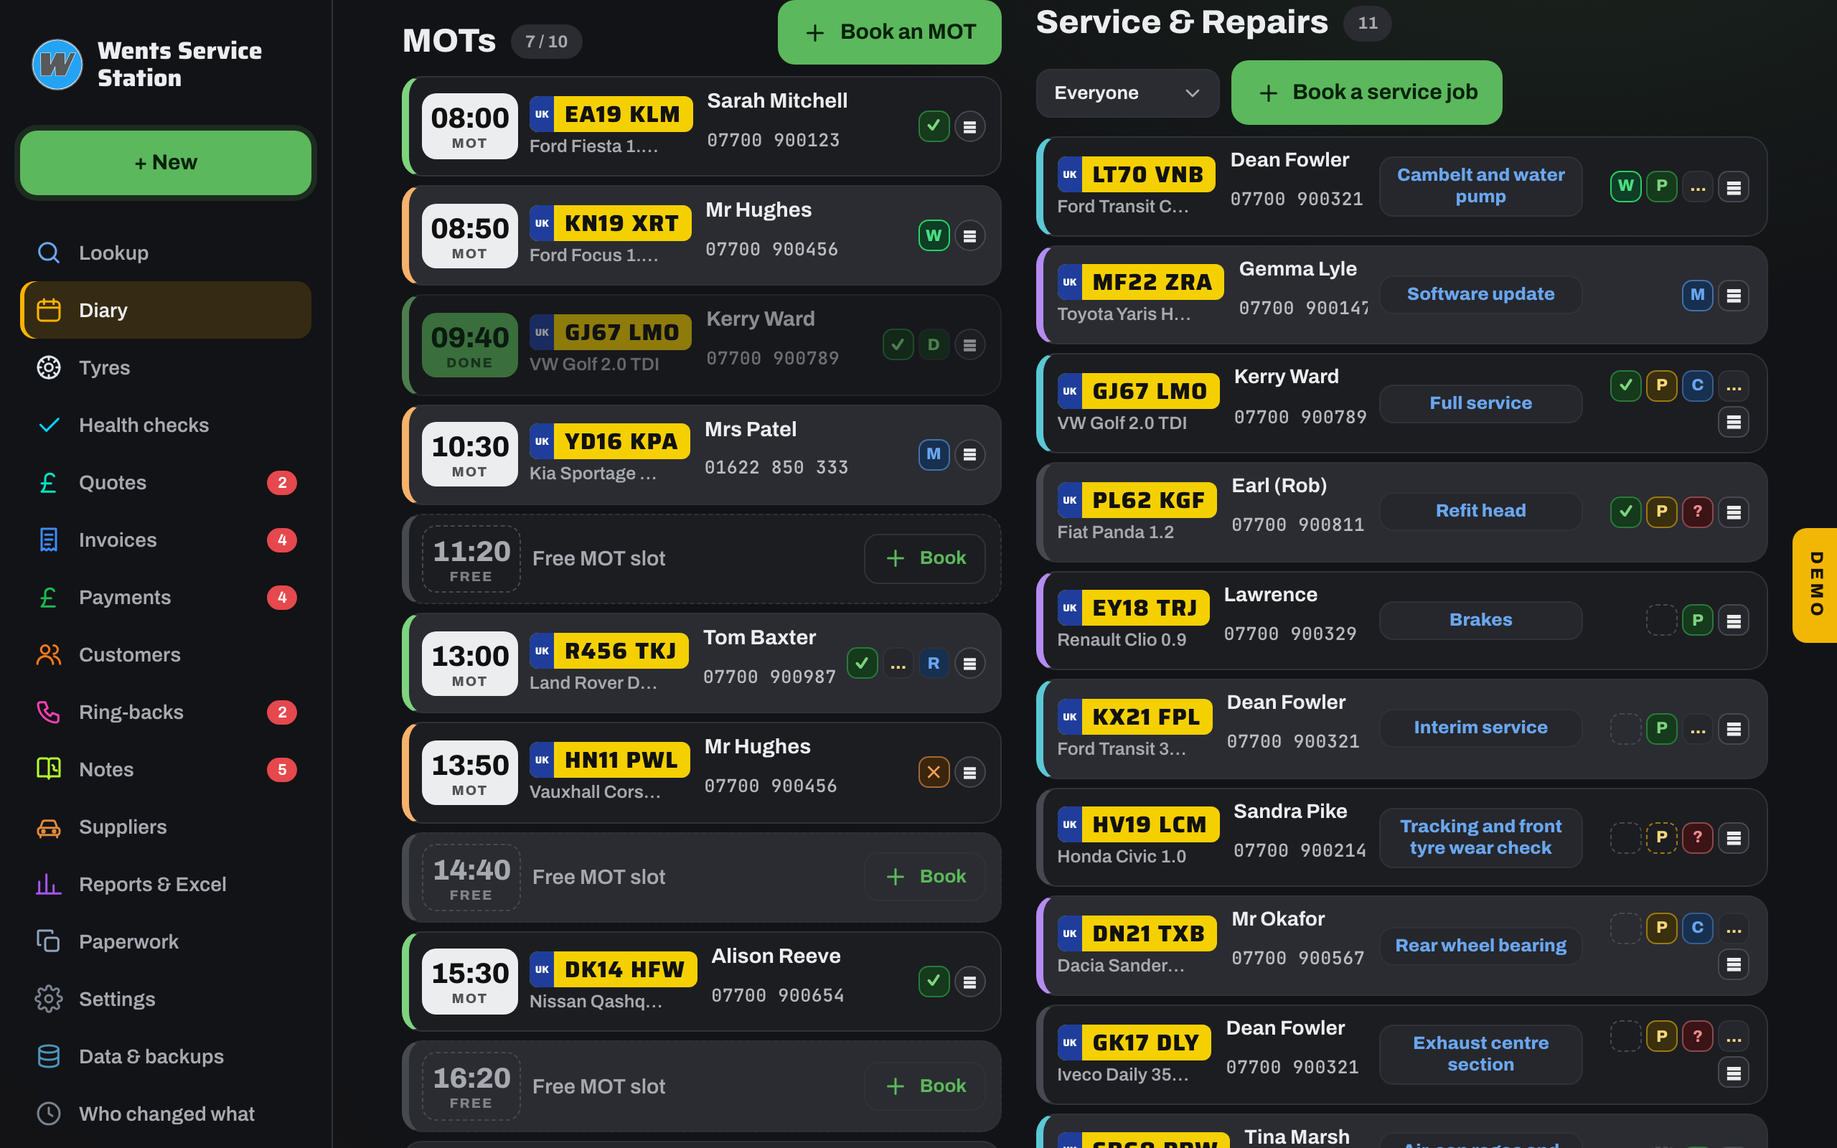
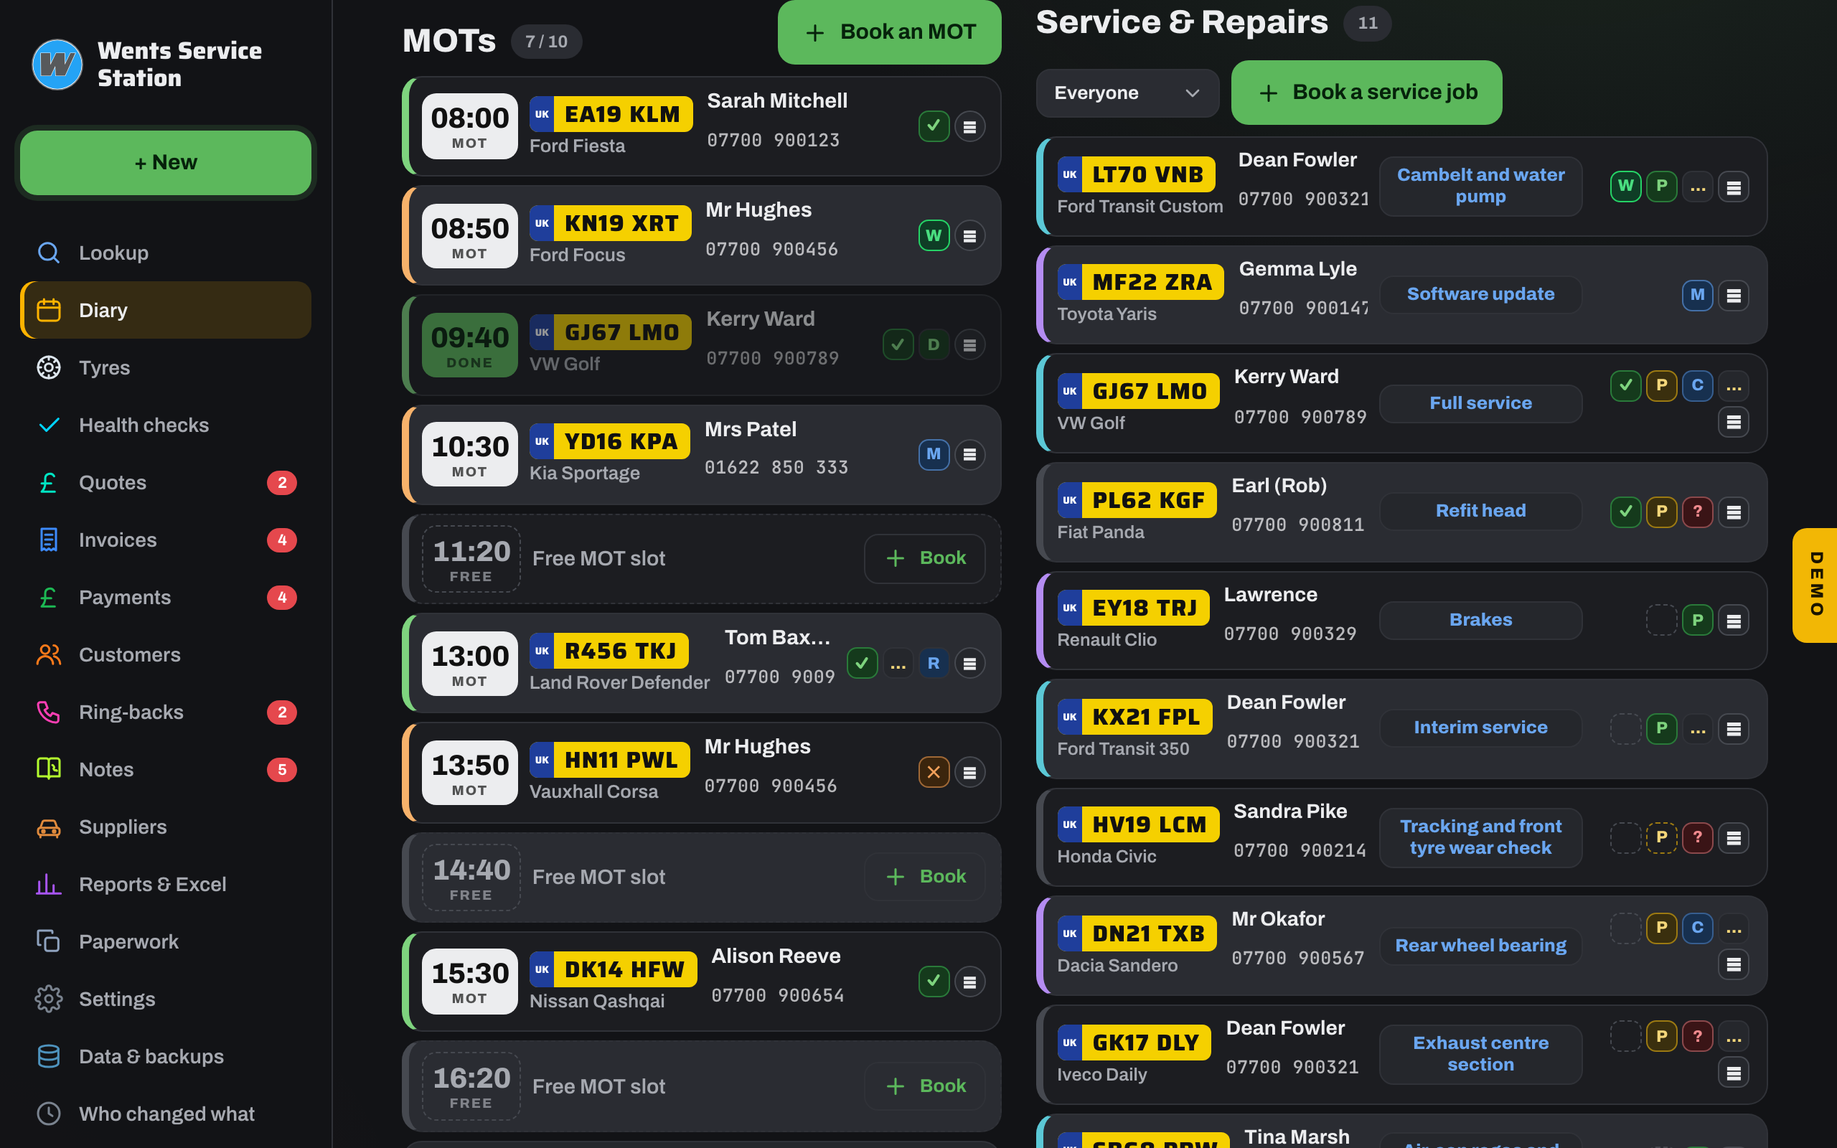
Mock round 30: diary page wider (1480 cap, tighter side padding), MOT column takes a bigger share on desktop, make line longer and a touch bigger so the full make and model shows under the reg, demo vehicles carry make and model only (no engine sizes); workshop-v26

diff --git a/mock/index.html b/mock/index.html
@@ -62,7 +62,7 @@ body{overflow-x:hidden}
 .side .foot .dot{display:inline-block;width:8px;height:8px;border-radius:99px;background:var(--green);margin-right:6px;box-shadow:0 0 0 3px rgba(92,184,92,.2)}
 
 /* main */
-.main{min-width:0;padding:26px 28px 90px;max-width:1180px;width:100%}
+.main{min-width:0;padding:26px 24px 90px;max-width:1480px;width:100%}
 .eyebrow{font-size:12px;letter-spacing:.14em;text-transform:uppercase;color:var(--muted);font-weight:700}
 .title{font-family:var(--font-title);font-size:34px;line-height:1.05;letter-spacing:-.01em;margin:2px 0 20px}
 .head{display:flex;align-items:flex-start;justify-content:space-between;gap:16px;flex-wrap:wrap}
@@ -346,7 +346,7 @@ a.stat{display:block} a.stat:hover{border-color:var(--line-strong)}
 .dv .bm{display:grid;gap:3px;min-width:0}.dv .bm .vc{display:flex;align-items:center;flex-wrap:wrap;gap:4px 10px;min-width:0}.dv .bm .veh{flex:none} .dv .bm .plate{font-size:16px} .dv .bm .plate span{padding:5px 8px 4px 7px} .dv .bm .plate::before{font-size:7px;padding:0 4px}
  .dv .bm .job svg{width:14px;height:14px;flex:none;vertical-align:-2px}
  .dv .bm .veh{display:grid;gap:3px;justify-items:start;align-content:center}
- .dv .bm .veh small{font-size:12.5px;font-weight:600;color:var(--muted);line-height:1.15;max-width:114px;white-space:nowrap;overflow:hidden;text-overflow:ellipsis}
+ .dv .bm .veh small{font-size:13px;font-weight:600;color:var(--muted);line-height:1.15;max-width:150px;white-space:nowrap;overflow:hidden;text-overflow:ellipsis}
  .dv .bm .cus{display:grid;gap:2px;min-width:0;flex:1 1 76px;align-content:center}
  .dv .bm .cus b{font-size:14.5px;font-weight:700;color:var(--fg);line-height:1.15;white-space:nowrap;overflow:hidden;text-overflow:ellipsis}
  .dv .bm .cus a,.dv .bm .cus .ph,.dv .bm .cus .muted{color:var(--fg);opacity:.75;font-family:var(--font-mono);font-weight:600;letter-spacing:.02em;font-size:12.5px;white-space:nowrap}
@@ -372,7 +372,7 @@ a.stat{display:block} a.stat:hover{border-color:var(--line-strong)}
 .dv .sq.cf.none{border-style:dashed;border-color:var(--line-strong);background:transparent} .dv .sq.cf.ok{background:#153A1C;border-color:#2a7a3a;color:#7ED37E} .dv .sq.cf.wa{background:#0F3D26;border-color:#25D366;color:#4ADE80} .dv .sq.cf.msg{background:#17304F;border-color:rgba(106,166,240,.55);color:var(--accent)} .dv .sq.cf.noans{background:#3B250D;border-color:rgba(242,160,90,.55);color:#F2A05A}
 .dv .sq.pt.todo{background:transparent;border-style:dashed;border-color:var(--flag-line);color:var(--flag-fg)} .dv .sq.pt.ordered{background:var(--flag-bg);border-color:var(--flag-line);color:var(--flag-fg)} .dv .sq.pt.in{background:#153A1C;border-color:#2a7a3a;color:#7ED37E}
 .dv .sq.ln{background:#17304F;border-color:rgba(106,166,240,.4);color:var(--accent)} .dv .sq.ng{background:#3A1416;border-color:rgba(240,138,142,.45);color:#F08A8E} .dv .sq.nq{color:var(--flag-fg);letter-spacing:-.05em} .dv .sq.ap{background:#153A1C;color:#7ED37E} .dv .sq.rd{background:#17304F;color:var(--accent)} .dv .sq.dn{background:#153A1C;color:#7ED37E} .dv .sq.wl{color:var(--flag-fg);border-color:var(--flag-line)} .dv .sq.wl.moved,.dv .sq.wl.rebooked{color:#7ED37E;border-color:#2a7a3a}
-.dv .wlb{width:26px;height:26px;border-radius:8px;padding:0;justify-content:center;flex:none} .dv .wlb svg{width:13px;height:13px} .dvslot .rt{max-width:100px;gap:3px} .dvslot .sq,.dvslot .wlb{width:22px;height:22px;font-size:11.5px;border-radius:7px} .dvslot .sq svg,.dvslot .wlb svg{width:12px;height:12px} .dvslot .bm .veh small{max-width:100px}
+.dv .wlb{width:26px;height:26px;border-radius:8px;padding:0;justify-content:center;flex:none} .dv .wlb svg{width:13px;height:13px} .dvslot .rt{max-width:100px;gap:3px} .dvslot .sq,.dvslot .wlb{width:22px;height:22px;font-size:11.5px;border-radius:7px} .dvslot .sq svg,.dvslot .wlb svg{width:12px;height:12px} .dvslot .bm .veh small{max-width:150px}
 .dvkey{display:flex;flex-wrap:wrap;align-items:center;gap:4px 14px;margin:-4px 0 10px;font-size:12px;color:var(--muted);font-weight:600} .dvkey span{display:inline-flex;align-items:center;gap:5px} .dvkey .wlb{width:20px;height:20px;border-radius:6px;cursor:default} .dvkey .wlb svg{width:12px;height:12px;stroke:currentColor;fill:none;stroke-width:2.2} .dvkey .sq{width:20px;height:20px;font-size:11px;border-radius:6px;font-style:normal}
 .dvslot.free{min-height:52px;padding-top:7px;padding-bottom:7px;border-style:dashed;border-left-style:solid} .dvslot.free .bm{color:var(--muted);font-size:14.5px;font-weight:600} .dvslot.free .rt .btn{color:var(--green)}
 .dvslot.done{opacity:.55} .dvslot.done .tm{background:var(--green);color:var(--green-fg,#0B1424)}
@@ -929,7 +929,7 @@ a.stat{display:block} a.stat:hover{border-color:var(--line-strong)}
 .spmode button.on{background:color-mix(in srgb,var(--sc,var(--accent)) 22%,var(--tile));color:var(--fg)}
 .sgrid .srow{margin-bottom:8px}
 @media (max-width:760px){.spbar{grid-template-columns:1fr}}
-@media (min-width:1400px){.dv .cols{grid-template-columns:minmax(0,5fr) minmax(0,8fr)}} @media (min-width:601px) and (max-width:1399px){.dvjob{grid-template-columns:minmax(0,1fr) 150px 100px;gap:4px 8px} .dvjob .jbx{width:142px;margin-right:8px;padding:5px 7px} .dvjob .jbx .jb{font-size:12.5px} .dvjob .rt{width:100px} .dvjob .rt .sq,.dvjob .rt .wlb{width:22px;height:22px;font-size:11.5px} .dv .bm .veh small{max-width:96px}}
+@media (min-width:1400px){.dv .cols{grid-template-columns:minmax(0,6fr) minmax(0,8fr)} .dv .bm .veh small{max-width:170px} .dvslot .bm .veh small{max-width:170px}} @media (min-width:601px) and (max-width:1399px){.dvjob{grid-template-columns:minmax(0,1fr) 150px 100px;gap:4px 8px} .dvjob .jbx{width:142px;margin-right:8px;padding:5px 7px} .dvjob .jbx .jb{font-size:12.5px} .dvjob .rt{width:100px} .dvjob .rt .sq,.dvjob .rt .wlb{width:22px;height:22px;font-size:11.5px} .dv .bm .veh small{max-width:130px}}
 @media (min-width:1100px){.sgrid{display:grid;grid-template-columns:repeat(3,1fr);gap:10px}.sgrid .srow{margin-bottom:0}.mkgrid{grid-template-columns:repeat(auto-fill,minmax(200px,1fr));gap:12px}.spcards{display:grid;grid-template-columns:1fr 1fr;gap:12px;align-items:start}.spcards>.card{grid-column:1/-1}}
 /* Notes table (14 Nov): Notion-style database with a grouped status picker, service tags, quick add row, board view */
 .nfilt{display:flex;gap:8px;flex-wrap:wrap;align-items:center;margin:0 0 12px} .nfilt .sp{flex:1} .nfilt .chips button .crn{font-family:var(--font-mono);font-weight:500;margin-left:5px;opacity:.75}
@@ -1140,22 +1140,22 @@ const customers=[
  {id:'c8',name:'Gemma Lyle',phone:'07700 900147',email:'g.lyle@example.com',addr:'3 Maidstone Road, Headcorn, TN27 9RE',since:'2023'},
 ];
 const vehicles=[
- {reg:'EA19 KLM',make:'Ford Fiesta 1.0 EcoBoost',year:2019,cust:'c1',miles:48210,mot:'2027-03-14',fuel:'Petrol',colour:'Blue'},
- {reg:'KN19 XRT',make:'Ford Focus 1.0 EcoBoost',year:2019,cust:'c2',miles:61880,mot:'2026-11-09',fuel:'Petrol',colour:'Grey'},
- {reg:'GJ67 LMO',make:'VW Golf 2.0 TDI',year:2017,cust:'c3',miles:92340,mot:'2027-01-22',fuel:'Diesel',colour:'White'},
- {reg:'YD16 KPA',make:'Kia Sportage 1.7 CRDi',year:2016,cust:'c4',miles:104500,mot:'2026-11-30',fuel:'Diesel',colour:'Silver'},
- {reg:'LT70 VNB',make:'Ford Transit Custom 2.0',year:2020,cust:'c5',miles:138900,mot:'2026-12-03',fuel:'Diesel',colour:'White'},
- {reg:'DK14 HFW',make:'Nissan Qashqai 1.5 dCi',year:2014,cust:'c6',miles:118200,mot:'2027-06-08',fuel:'Diesel',colour:'Red'},
- {reg:'R456 TKJ',make:'Land Rover Defender 110',year:1998,cust:'c7',miles:210400,mot:'2026-11-18',fuel:'Diesel',colour:'Green'},
- {reg:'MF22 ZRA',make:'Toyota Yaris Hybrid',year:2022,cust:'c8',miles:21340,mot:'2027-09-01',fuel:'Hybrid',colour:'Black'},
- {reg:'HN11 PWL',make:'Vauxhall Corsa 1.2',year:2011,cust:'c2',miles:88100,mot:'2026-11-25',fuel:'Petrol',colour:'Black'},
+ {reg:'EA19 KLM',make:'Ford Fiesta',year:2019,cust:'c1',miles:48210,mot:'2027-03-14',fuel:'Petrol',colour:'Blue'},
+ {reg:'KN19 XRT',make:'Ford Focus',year:2019,cust:'c2',miles:61880,mot:'2026-11-09',fuel:'Petrol',colour:'Grey'},
+ {reg:'GJ67 LMO',make:'VW Golf',year:2017,cust:'c3',miles:92340,mot:'2027-01-22',fuel:'Diesel',colour:'White'},
+ {reg:'YD16 KPA',make:'Kia Sportage',year:2016,cust:'c4',miles:104500,mot:'2026-11-30',fuel:'Diesel',colour:'Silver'},
+ {reg:'LT70 VNB',make:'Ford Transit Custom',year:2020,cust:'c5',miles:138900,mot:'2026-12-03',fuel:'Diesel',colour:'White'},
+ {reg:'DK14 HFW',make:'Nissan Qashqai',year:2014,cust:'c6',miles:118200,mot:'2027-06-08',fuel:'Diesel',colour:'Red'},
+ {reg:'R456 TKJ',make:'Land Rover Defender',year:1998,cust:'c7',miles:210400,mot:'2026-11-18',fuel:'Diesel',colour:'Green'},
+ {reg:'MF22 ZRA',make:'Toyota Yaris',year:2022,cust:'c8',miles:21340,mot:'2027-09-01',fuel:'Hybrid',colour:'Black'},
+ {reg:'HN11 PWL',make:'Vauxhall Corsa',year:2011,cust:'c2',miles:88100,mot:'2026-11-25',fuel:'Petrol',colour:'Black'},
 ];
 vehicles.push(
- {reg:'KX21 FPL',make:'Ford Transit 350 L3 2.0 EcoBlue',year:2021,cust:'c5',miles:96400,mot:'2027-05-12',fuel:'Diesel',colour:'White'},
- {reg:'GL19 WRX',make:'Mercedes Sprinter 314 CDI',year:2019,cust:'c5',miles:141200,mot:'2027-02-19',fuel:'Diesel',colour:'White'},
- {reg:'LF68 TYD',make:'Toyota Hilux 2.4 Invincible',year:2018,cust:'c5',miles:88750,mot:'2027-04-03',fuel:'Diesel',colour:'Grey'},
- {reg:'KM22 RNG',make:'Ford Ranger 2.0 Wildtrak',year:2022,cust:'c5',miles:41300,mot:'2027-08-15',fuel:'Diesel',colour:'Blue'},
- {reg:'GK17 DLY',make:'Iveco Daily 35S14',year:2017,cust:'c5',miles:167800,mot:'2026-12-20',fuel:'Diesel',colour:'White'}
+ {reg:'KX21 FPL',make:'Ford Transit 350',year:2021,cust:'c5',miles:96400,mot:'2027-05-12',fuel:'Diesel',colour:'White'},
+ {reg:'GL19 WRX',make:'Mercedes Sprinter',year:2019,cust:'c5',miles:141200,mot:'2027-02-19',fuel:'Diesel',colour:'White'},
+ {reg:'LF68 TYD',make:'Toyota Hilux',year:2018,cust:'c5',miles:88750,mot:'2027-04-03',fuel:'Diesel',colour:'Grey'},
+ {reg:'KM22 RNG',make:'Ford Ranger',year:2022,cust:'c5',miles:41300,mot:'2027-08-15',fuel:'Diesel',colour:'Blue'},
+ {reg:'GK17 DLY',make:'Iveco Daily',year:2017,cust:'c5',miles:167800,mot:'2026-12-20',fuel:'Diesel',colour:'White'}
 );
 const invoices=[
  {n:'INV-0042',cust:'c1',reg:'EA19 KLM',date:'2026-11-09',due:'2026-11-23',title:'Front brake pads and discs',status:'owed',total:207.72,paid:0,miles:48210,js:'JS-1187',adv:['Rear pads about 4mm, due at the next service','Nearside front tyre 3mm'],
@@ -1591,14 +1591,14 @@ const SLOTS=['08:00','08:50','09:40','10:30','11:20','13:00','13:50','14:40','15
 const NOTES={'2026-11-11':['Karen off (holiday)','10:30 meeting · Euro Car Parts rep','Adam leaves 3pm'],'2026-11-12':['Jenson at the accountant 12–1'],'2026-11-13':[]};
 const BK={
  '2026-11-11':[
-  {id:'s11',k:'spec',sp:'s1',t:'09:00',reg:'LD17 ZPM',make:'Vauxhall Insignia 2.0 CDTi',name:'Mr Hargreaves',ph:'07700 900741',job:'DPF forced regen and injector test',nt:'Warning light on · came in on recovery'},{id:'s12',k:'spec',sp:'s1',t:'11:30',reg:'WR66 UJE',make:'Ford Transit Custom 2.0',name:'Kent Fencing',ph:'07700 900318',job:'EGR cooler leak diagnosis',parts:'ordered'},
+  {id:'s11',k:'spec',sp:'s1',t:'09:00',reg:'LD17 ZPM',make:'Vauxhall Insignia',name:'Mr Hargreaves',ph:'07700 900741',job:'DPF forced regen and injector test',nt:'Warning light on · came in on recovery'},{id:'s12',k:'spec',sp:'s1',t:'11:30',reg:'WR66 UJE',make:'Ford Transit Custom',name:'Kent Fencing',ph:'07700 900318',job:'EGR cooler leak diagnosis',parts:'ordered'},
   {id:'b1',k:'mot',t:'08:00',reg:'EA19 KLM',who:'dan2'},{id:'b2',k:'mot',t:'08:50',reg:'KN19 XRT',who:'dan1'},{id:'b3',k:'mot',t:'09:40',reg:'GJ67 LMO',who:'dan2',st:'done'},{id:'b4',k:'mot',t:'10:30',reg:'YD16 KPA',who:'dan1'},{id:'b5',k:'mot',t:'13:00',reg:'R456 TKJ',who:'dan2',nt:'Retest · free'},{id:'b6',k:'mot',t:'13:50',reg:'HN11 PWL',who:'dan1'},{id:'b7',k:'mot',t:'15:30',reg:'DK14 HFW',who:'dan2'},
-  {id:'b8',k:'svc',reg:'LT70 VNB',who:'ryan',job:'Cambelt and water pump',parts:'in',nt:'Fleet van · needed back Friday'},{id:'b9',k:'svc',reg:'MF22 ZRA',who:'paul',job:'Software update',parts:''},{id:'b10',k:'svc',reg:'GJ67 LMO',who:'ryan',job:'Full service',parts:'ordered',partsNote:'Oil + air filter, 5L 5w30',loan:'car',nt:'OAP · ring when ready'},{id:'b11',k:'svc',reg:'PL62 KGF',make:'Fiat Panda 1.2',name:'Earl (Rob)',ph:'07700 900811',who:'',job:'Refit head',parts:'ordered',partsNote:'Head set, head bolts, coolant'},{id:'b12',k:'svc',reg:'EY18 TRJ',make:'Renault Clio 0.9',name:'Lawrence',ph:'07700 900329',who:'paul',job:'Brakes',parts:'in'},{id:'b16',k:'svc',reg:'KX21 FPL',who:'ryan',job:'Interim service',parts:'in',nt:'Fleet · back by 4'},{id:'b17',k:'svc',reg:'HV19 LCM',make:'Honda Civic 1.0',name:'Sandra Pike',ph:'07700 900214',who:'',job:'Tracking and front tyre wear check',parts:'',partsNote:'2 × 195/65 R15 if worn'},{id:'b18',k:'svc',reg:'DN21 TXB',make:'Dacia Sandero 1.0',name:'Mr Okafor',ph:'07700 900567',who:'paul',job:'Rear wheel bearing',parts:'ordered',partsNote:'NSR bearing kit',loan:'car',nt:'Ring before fitting · quoted £180'},{id:'b19',k:'svc',reg:'GK17 DLY',who:'',job:'Exhaust centre section',parts:'ordered',nt:'Fleet van'},{id:'b20',k:'svc',reg:'SB68 PRW',make:'Skoda Octavia 1.6 TDI',name:'Tina Marsh',ph:'07700 900632',who:'ryan',job:'Air-con regas and cabin filter',parts:'in'},{id:'b21',k:'svc',reg:'YK15 HJD',make:'Hyundai i10 1.2',name:'Mr Bell',ph:'07700 900905',who:'',job:'Battery and alternator check',parts:'',nt:'Waiting · 1 hour'},
-  {id:'b13',k:'xtra',reg:'KN19 XRT',who:'',job:'Check knocking from the front',mins:30},{id:'b14',k:'xtra',reg:'LS67 BWD',make:'BMW 320d',name:'Foster',ph:'07700 900123',who:'',job:'Brakes coming on · quick look',mins:20,t:'13:30'},{id:'b15',k:'xtra',reg:'WR15 ZNP',make:'Ford Fiesta 1.25',name:'Mel Russell',ph:'07700 900456',who:'paul',job:'Squeak from the rear',mins:20,t:'14:30'}
+  {id:'b8',k:'svc',reg:'LT70 VNB',who:'ryan',job:'Cambelt and water pump',parts:'in',nt:'Fleet van · needed back Friday'},{id:'b9',k:'svc',reg:'MF22 ZRA',who:'paul',job:'Software update',parts:''},{id:'b10',k:'svc',reg:'GJ67 LMO',who:'ryan',job:'Full service',parts:'ordered',partsNote:'Oil + air filter, 5L 5w30',loan:'car',nt:'OAP · ring when ready'},{id:'b11',k:'svc',reg:'PL62 KGF',make:'Fiat Panda',name:'Earl (Rob)',ph:'07700 900811',who:'',job:'Refit head',parts:'ordered',partsNote:'Head set, head bolts, coolant'},{id:'b12',k:'svc',reg:'EY18 TRJ',make:'Renault Clio',name:'Lawrence',ph:'07700 900329',who:'paul',job:'Brakes',parts:'in'},{id:'b16',k:'svc',reg:'KX21 FPL',who:'ryan',job:'Interim service',parts:'in',nt:'Fleet · back by 4'},{id:'b17',k:'svc',reg:'HV19 LCM',make:'Honda Civic',name:'Sandra Pike',ph:'07700 900214',who:'',job:'Tracking and front tyre wear check',parts:'',partsNote:'2 × 195/65 R15 if worn'},{id:'b18',k:'svc',reg:'DN21 TXB',make:'Dacia Sandero',name:'Mr Okafor',ph:'07700 900567',who:'paul',job:'Rear wheel bearing',parts:'ordered',partsNote:'NSR bearing kit',loan:'car',nt:'Ring before fitting · quoted £180'},{id:'b19',k:'svc',reg:'GK17 DLY',who:'',job:'Exhaust centre section',parts:'ordered',nt:'Fleet van'},{id:'b20',k:'svc',reg:'SB68 PRW',make:'Skoda Octavia',name:'Tina Marsh',ph:'07700 900632',who:'ryan',job:'Air-con regas and cabin filter',parts:'in'},{id:'b21',k:'svc',reg:'YK15 HJD',make:'Hyundai i10',name:'Mr Bell',ph:'07700 900905',who:'',job:'Battery and alternator check',parts:'',nt:'Waiting · 1 hour'},
+  {id:'b13',k:'xtra',reg:'KN19 XRT',who:'',job:'Check knocking from the front',mins:30},{id:'b14',k:'xtra',reg:'LS67 BWD',make:'BMW 320d',name:'Foster',ph:'07700 900123',who:'',job:'Brakes coming on · quick look',mins:20,t:'13:30'},{id:'b15',k:'xtra',reg:'WR15 ZNP',make:'Ford Fiesta',name:'Mel Russell',ph:'07700 900456',who:'paul',job:'Squeak from the rear',mins:20,t:'14:30'}
  ],
  '2026-11-12':[
   {id:'c1',k:'mot',t:'08:00',reg:'NY17 CWR',make:'Peugeot Expert',name:'Woolford',ph:'07700 900778',who:'dan1'},{id:'c2',k:'mot',t:'08:50',reg:'WO15 NKP',make:'Ford Focus',name:'Holmes',ph:'07700 900098',who:'dan2'},{id:'c3',k:'mot',t:'09:40',reg:'MF22 ZRA',who:'dan1'},{id:'c4',k:'mot',t:'10:30',reg:'GY68 XKS',make:'Tesla Model 3',name:'Chaussy',ph:'07700 900046',who:'dan2'},{id:'c5',k:'mot',t:'11:20',reg:'HN11 PWL',who:'dan1'},{id:'c6',k:'mot',t:'13:00',reg:'DK14 HFW',who:'dan2'},{id:'c7',k:'mot',t:'13:50',reg:'YD16 KPA',who:'dan1'},{id:'c8',k:'mot',t:'14:40',reg:'EA19 KLM',who:'dan2'},{id:'c9',k:'mot',t:'15:30',reg:'R456 TKJ',who:'dan1'},{id:'c10',k:'mot',t:'16:20',reg:'GJ67 LMO',who:'dan2'},
-  {id:'c11',k:'svc',reg:'KN19 XRT',who:'ryan',job:'Full service and MOT',parts:'ordered',nt:'OAP'},{id:'c12',k:'svc',reg:'PL62 KGF',make:'Fiat Panda 1.2',name:'Earl (Rob)',ph:'07700 900811',who:'paul',job:'Refit head',parts:'ordered'},{id:'c13',k:'svc',reg:'EY18 TRJ',make:'Renault Clio 0.9',name:'Lawrence',ph:'07700 900329',who:'ryan',job:'Brakes',parts:'in'},{id:'c14',k:'svc',reg:'LT70 VNB',who:'paul',job:'Two rear tyres',parts:'ordered',partsNote:'2 × 215/65 R16C',loan:'van'},
+  {id:'c11',k:'svc',reg:'KN19 XRT',who:'ryan',job:'Full service and MOT',parts:'ordered',nt:'OAP'},{id:'c12',k:'svc',reg:'PL62 KGF',make:'Fiat Panda',name:'Earl (Rob)',ph:'07700 900811',who:'paul',job:'Refit head',parts:'ordered'},{id:'c13',k:'svc',reg:'EY18 TRJ',make:'Renault Clio',name:'Lawrence',ph:'07700 900329',who:'ryan',job:'Brakes',parts:'in'},{id:'c14',k:'svc',reg:'LT70 VNB',who:'paul',job:'Two rear tyres',parts:'ordered',partsNote:'2 × 215/65 R16C',loan:'van'},
   {id:'c15',k:'xtra',reg:'GJ67 LMO',who:'',job:'Warning light on dash · read codes',mins:20}
  ],
  '2026-11-13':[{id:'s31',k:'spec',sp:'s2',t:'10:00',reg:'FY19 RTC',make:'BMW 320d',name:'Mrs Delaney',ph:'07700 900286',job:'Parasitic battery drain trace',nt:'Battery flat every two days'},{id:'d1',k:'mot',t:'08:00',reg:'LT70 VNB',who:'dan1'},{id:'d2',k:'mot',t:'09:40',reg:'KN19 XRT',who:'dan2'},{id:'d3',k:'svc',reg:'YD16 KPA',who:'ryan',job:'Clutch',parts:'ordered',loan:'car'}],
@@ -3147,14 +3147,14 @@ const TY={
   {id:'t4',kind:'w',reg:'YD16 KPA',size:'225/60 R17 99H',brand:'Goodyear',sup:'GT',price:'£236',qty:2,pos:'rears',ts:'ordered',fs:'wait',who:'jen',job:'In for the clutch · rears cracked'},
   {id:'t5',kind:'w',reg:'LT70 VNB',tin:'14:00',size:'215/65 R16C',brand:'Kumho',sup:'TN',qty:1,pos:'osr',ts:'order',fs:'wait',who:'',job:'Fleet van · nail in the rear',nt:'Needs a PO number from Fowler Plant before ordering'},
   {id:'t5b',kind:'w',reg:'WA17 HGZ',tin:'15:00',size:'',qty:0,pos:'other',ts:'arrived',fs:'wait',who:'karen',job:'TPMS fault · light on, check sensors',price:'£45'},
-  {id:'t5c',kind:'w',pc:true,reg:'KX21 RFD',make:'Vauxhall Corsa 1.2',name:'Priya Nair',ph:'07700 900952',tin:'13:30',size:'195/55 R16 87H',brand:'Conti',sup:'STS',price:'£89',qty:1,pos:'nsf',ts:'arrived',fs:'wait',who:'jen',job:'Puncture check · slow puncture NSF',nt:'Tyre here in case it can’t be repaired'},
-  {id:'t5d',kind:'w',pc:true,reg:'BV68 TQE',make:'Ford Fiesta 1.0',name:'Tom Ashby',ph:'07700 900963',tin:'14:30',size:'175/65 R14 82T',brand:'Goodyear',sup:'GT',price:'£72',qty:1,pos:'osr',ts:'order',fs:'wait',who:'',job:'Puncture check · screw in the OSR'},
+  {id:'t5c',kind:'w',pc:true,reg:'KX21 RFD',make:'Vauxhall Corsa',name:'Priya Nair',ph:'07700 900952',tin:'13:30',size:'195/55 R16 87H',brand:'Conti',sup:'STS',price:'£89',qty:1,pos:'nsf',ts:'arrived',fs:'wait',who:'jen',job:'Puncture check · slow puncture NSF',nt:'Tyre here in case it can’t be repaired'},
+  {id:'t5d',kind:'w',pc:true,reg:'BV68 TQE',make:'Ford Fiesta',name:'Tom Ashby',ph:'07700 900963',tin:'14:30',size:'175/65 R14 82T',brand:'Goodyear',sup:'GT',price:'£72',qty:1,pos:'osr',ts:'order',fs:'wait',who:'',job:'Puncture check · screw in the OSR'},
   {id:'t6',kind:'c',t:'16:00',name:'Jo Cartwright',addr:'14 Mill Lane, Lenham, ME17 2PQ',ph:'07700 900934',reg:'LJ18 WDA',make:'Audi A3 Sportback',tyres:'2 × 225/45 R17 fronts',cs:'conf',who:'karen',nt:'Car on the drive, keys with the neighbour'}
  ],
  '2026-11-12':[
   {id:'t7',kind:'w',reg:'KN19 XRT',tin:'09:00',size:'205/55 R16 91V',brand:'Conti',sup:'STS',price:'£184',qty:2,pos:'fronts',ts:'ordered',fs:'wait',who:'jen',job:'Full service and MOT'},
   {id:'t8',kind:'w',reg:'MF22 ZRA',tin:'09:30',size:'185/65 R15 88H',brand:'Goodyear',sup:'GT',qty:4,pos:'all',ts:'order',fs:'wait',who:'adam',job:'MOT 09:40 · customer wants all four'},
-  {id:'t9',kind:'c',t:'15:30',name:'Fowler Plant Ltd',addr:'Ashford Road, Lenham, ME17 2DL',ph:'07700 900321',reg:'GL19 WRX',make:'Mercedes Sprinter 314 CDI',tyres:'2 × 235/65 R16C rears',cs:'req',who:'jen',nt:'Ask for Dean at the yard'}
+  {id:'t9',kind:'c',t:'15:30',name:'Fowler Plant Ltd',addr:'Ashford Road, Lenham, ME17 2DL',ph:'07700 900321',reg:'GL19 WRX',make:'Mercedes Sprinter',tyres:'2 × 235/65 R16C rears',cs:'req',who:'jen',nt:'Ask for Dean at the yard'}
  ],
  '2026-11-13':[
   {id:'t10',kind:'w',reg:'R456 TKJ',tin:'10:00',size:'235/85 R16',brand:'',sup:'',qty:2,pos:'rears',ts:'order',fs:'wait',who:'',job:'MOT advisory · rears'}

diff --git a/mock/sw.js b/mock/sw.js
@@ -1,6 +1,6 @@
 // Workshop (Garage System mock) offline support: keeps a copy of the app so it opens with no signal.
 // Bump VERSION whenever index.html, makes.js, logos or icons change, so installed copies pick up the update.
-const VERSION = 'workshop-v25';
+const VERSION = 'workshop-v26';
 const CORE = [
   './',
   'index.html',
